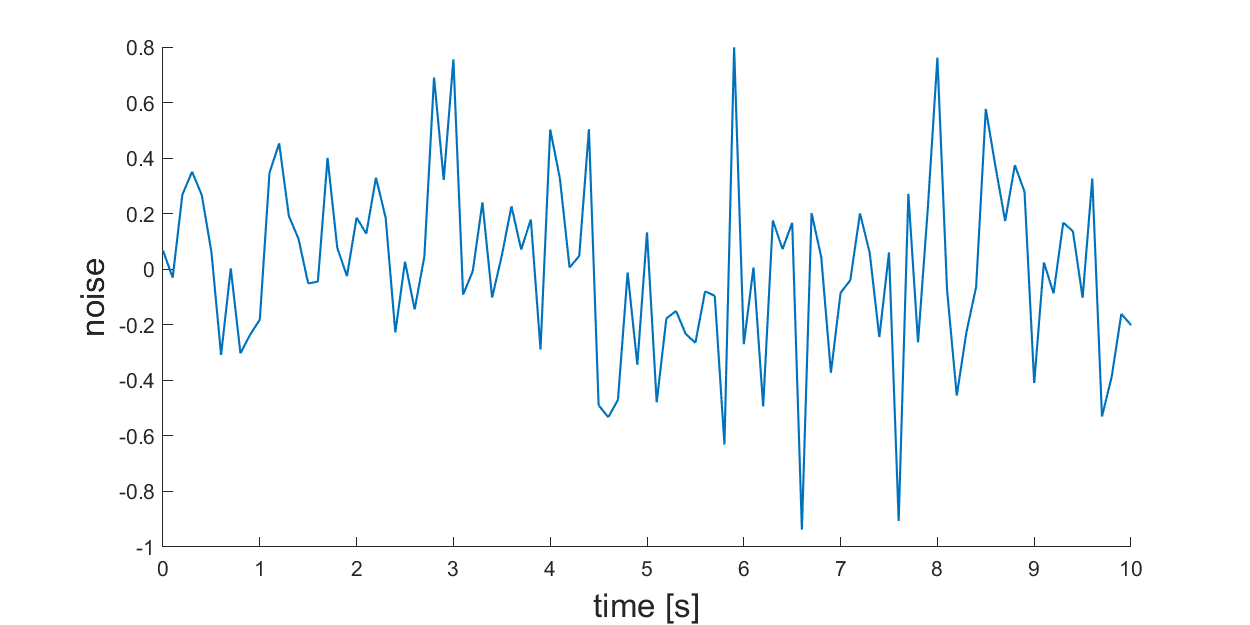
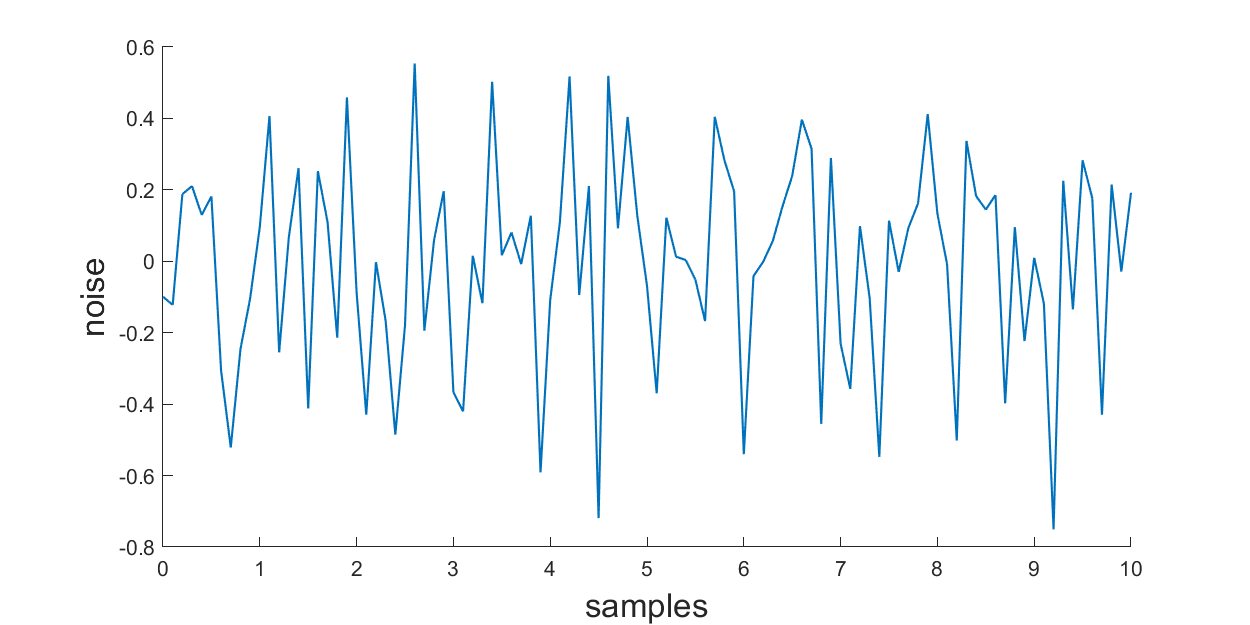
Question 3 done

diff --git a/hw2.tex b/hw2.tex
@@ -157,40 +157,60 @@
         \part{Perform the least squares with 10 samples (make sure to pick $\omega$ so that you get one full cycle in 10 samples).}
 
         \solution{
-            To make sure my least squares process is correct, displayed below are figures of the noise (figure \ref{fig:1}), the true rotation (figure \ref{fig:2}) and the gyroscope measurement with the added scale factor and bias (figure \ref{fig:3}).
+            To make sure my least squares process is correct, displayed below are figures of the noise (figure 1), the true rotation (figure 2) and the gyroscope measurement with the added scale factor and bias (figure 3). Setting my $a$ and $b$  to $5$ and $0.5$, repectively, produced an estimated value of those parameters as $4.9967$ and $0.6872$.
 
             \begin{figure}[!h]
-                \label{fig:1}
                 \centering
-                \includegraphics[width=\linewidth]{Q3a_n.png}
+                \includegraphics[width=.5\linewidth]{Q3a_n.png}
+                \label{fig:1}
             \end{figure}
 
             \begin{figure}[!h]
                 \label{fig:2}
                 \centering
-                \includegraphics[width=\linewidth]{Q3a_r.png}
+                \includegraphics[width=.5\linewidth]{Q3a_r.png}
             \end{figure}
 
             \begin{figure}[!h]
                 \label{fig:3}
                 \centering
-                \includegraphics[width=\linewidth]{Q3a_g.png}
+                \includegraphics[width=.5\linewidth]{Q3a_g.png}
             \end{figure}
         }
         \clearpage
         \part{Repeat part (a) 1000 times and calculate the mean and standard deviation of the estimate errors (this is known as a Monte Carlo Simulation). Compare the results to the theoretically expected mean and standard deviation.}
 
-        \solution{}
-
+        \solution{
+            Running the same 10 samples over 1000 times produced the following results (figure \ref{fig:4}). Through the 1000-run monte-carlo simulation, we get a mean of $4.999$ for a value of $a$ and a mean of $0.4983$ for $b$. This pretty close to our expected mean $5$ and $0.5$.
+            Furthermore, we get a standard deviation of $0.0013304$ for a value of $a$ and a standard deviation of $0.093126$ for $b$. This pretty close to our expected standard deviation $0.0018$ and $0.09$.
+            \begin{figure}[!h]
+                \label{fig:4}
+                \centering
+                \includegraphics[width=\linewidth]{Q3a_1000.png}
+            \end{figure}
+        }
+        \clearpage
         \part{Repeat part (a) and (b) using 1000 samples. What does the theoretical and Monte Carlo standard deviation of the estimated errors approach?}
 
-        \solution{}
+        \solution{
+            Doing 1000 samples per simulation allows to approach the expected mean and standard deviation more closely than doing 10 samples per simulation.
+            \begin{figure}[!h]
+                \centering
+                \includegraphics[width=\linewidth]{Q3c_10000.png}
+            \end{figure}
+        }
 
         \part{Set up the problem to run as a recursive least squares and plot the coefficients and theoretical standard deviation of the estimate error and the actual estimate error as a function of time.}
 
-        \solution{}
+        \solution{
+            Using recursive least squares gives an accurate estimation of the coefficients, seen in the figure below. The mean and standard deviation values for the recursive least squares method deviates a tiny bit at the beginning, but is spot on to the exact values as time progresses.
+            \begin{figure}[!h]
+                \centering
+                \includegraphics[width=0.75\linewidth]{Q3d.png}
+            \end{figure}
+        }
+        \clearpage
     \end{parts}
-    \clearpage
     \question{\textbf{Least Squares for System (I.D.)}
         Simulate the following discrete system a normal random input and output noise \[G(z) = \frac{0.25(z - 0.8)}{z^2 - 1.90z + 0.95} \]
         The following sample MATLAB code to do this

diff --git a/hw2c.m b/hw2c.m
@@ -10,7 +10,7 @@ omega = pi/0.25;
 meanq3 = 0;
 sigma = 0.3;
 t = linspace(0,100,1001);
-samples = 10;
+samples = 1000;
 r = 100*sin(omega*t);
 R = sigma^2*eye(samples);
 for k = 1:1000
@@ -38,21 +38,21 @@ ylabel('noise','FontSize',16)
 hold on
 plot(t,gaussianDistVector,LineWidth=1);
 xlim([0 10])
-saveas(fig2,'Q3a_n.png')
+saveas(fig2,'Q3c_n.png')
 
 fig3 = figure('Position',[500 500 800 400]);
 xlabel('samples','FontSize',16)
 ylabel('value','FontSize',16)
 hold on
 plot(1:samples,g,LineWidth=1);
-saveas(fig3,'Q3a_g.png')
+saveas(fig3,'Q3c_g.png')
 
 fig3 = figure('Position',[500 500 800 400]);
 xlabel('samples','FontSize',16)
 ylabel('value','FontSize',16)
 hold on
 plot(1:samples,g,LineWidth=1);
-saveas(fig3,'Q3a_g.png')
+saveas(fig3,'Q3c_g.png')
 
 fig4 = figure('Position',[500 500 800 400]);
 tiledlayout(2,1)
@@ -64,7 +64,7 @@ scatter(1:1000,LSQ_esti(1,:));
 yline(a,LineWidth=2,Color=[0 0 0])
 yline(std(LSQ_esti(1,:)) + a,LineWidth=2,Color=[1 0 0])
 yline(-std(LSQ_esti(1,:)) + a,LineWidth=2,Color=[1 0 0])
-ylim([4.995 5.005])
+ylim([4.9995 5.0005])
 
 
 nexttile
@@ -75,8 +75,8 @@ scatter(1:1000,LSQ_esti(2,:));
 yline(b,LineWidth=2,Color=[0 0 0])
 yline(std(LSQ_esti(2,:)) + b,LineWidth=2,Color=[1 0 0])
 yline(-std(LSQ_esti(2,:)) + b,LineWidth=2,Color=[1 0 0])
-ylim([.2 .8])
-saveas(fig4,'Q3a_1000.png')
+ylim([.45 .55])
+saveas(fig4,'Q3c_10000.png')
 
 mean(LSQ_esti(1,:))
 mean(LSQ_esti(2,:))

diff --git a/hw2d.m b/hw2d.m
@@ -1,0 +1,55 @@
+%% Formatting
+clc
+clear
+close all
+format shortg
+%% Begin question 3
+a = 5;
+b = .5;
+omega = pi/0.25;
+meanq3 = 0;
+sigma = 0.3;
+t = linspace(0,100,1000);
+samples = 10;
+r = 100*sin(omega*t);
+R = sigma^2*eye(samples);
+P = eye(2);
+LSQ_esti = [a;b];
+for k = 1:1000
+    [gaussianDistVector] = gaussianDistFCN([1 length(t)],sigma,meanq3);
+    g = a.*r + b + gaussianDistVector;
+
+    for i = 1:samples
+        H = [r(1:samples)' ones(samples,1)];
+
+        K = P*H'*(H*P*H' + R)^-1;
+        
+        LSQ_esti = LSQ_esti + K*(g(i) - H*LSQ_esti);
+
+        P = (P^-1 + H'*R^-1*H)^-1;
+
+        a_esti(i,k) = LSQ_esti(1,:);
+        b_esti(i,k) = LSQ_esti(2,:);
+
+        astd(i,k) = sqrt(P(1,1));
+        bstd(i,k) = sqrt(P(2,2));
+
+
+    end
+
+
+        aavg(k) = mean(a_esti(:,k),1);
+        bavg(k) = mean(b_esti(:,k),1);
+
+        astd(k) = std(a_esti(:,k),0,1);
+        bstd(k) = std(b_esti(:,k),0,1);
+
+end
+fig1 = figure('Position',[500 500 800 400]);
+xlabel('time [s]','FontSize',16)
+ylabel('coefficient values','FontSize',16)
+hold on
+yline(a,LineWidth=2,Color=[0.15 0.15 0.15]);
+yline(b,LineWidth=2,Color=[1 0.15 0.15]);
+ylim([0 6])
+saveas(fig1,'Q3d.png')
